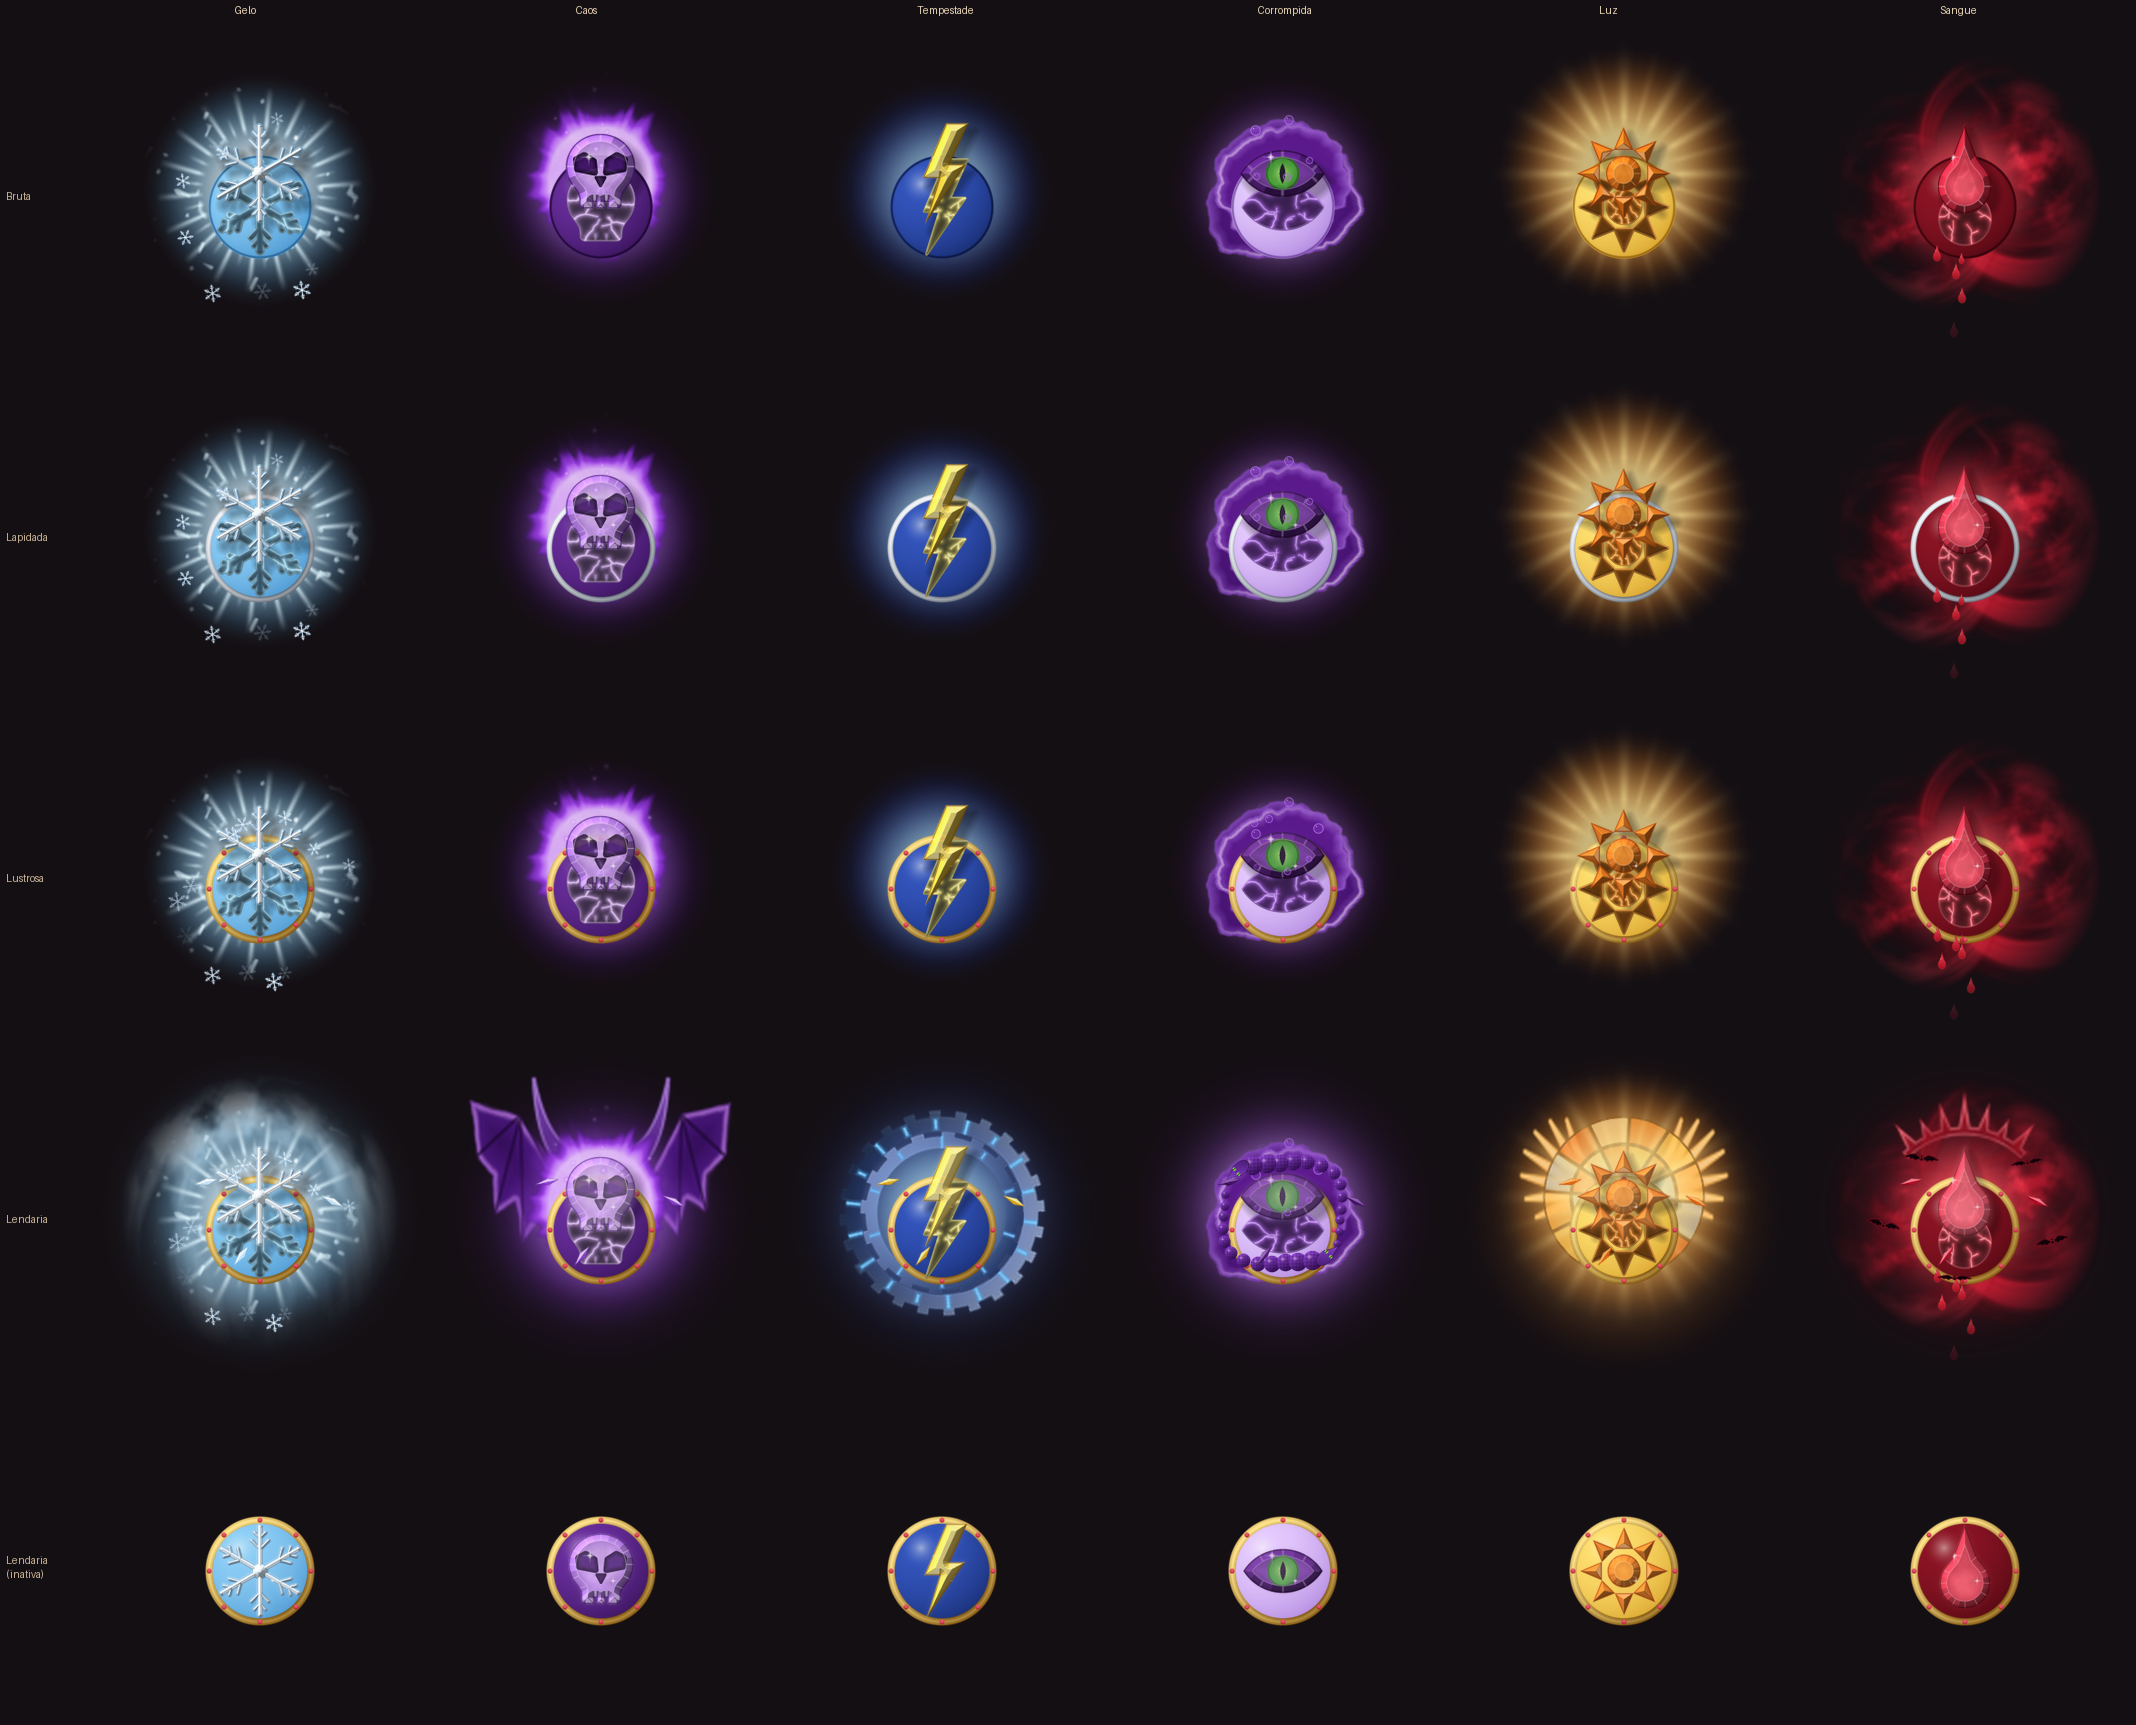
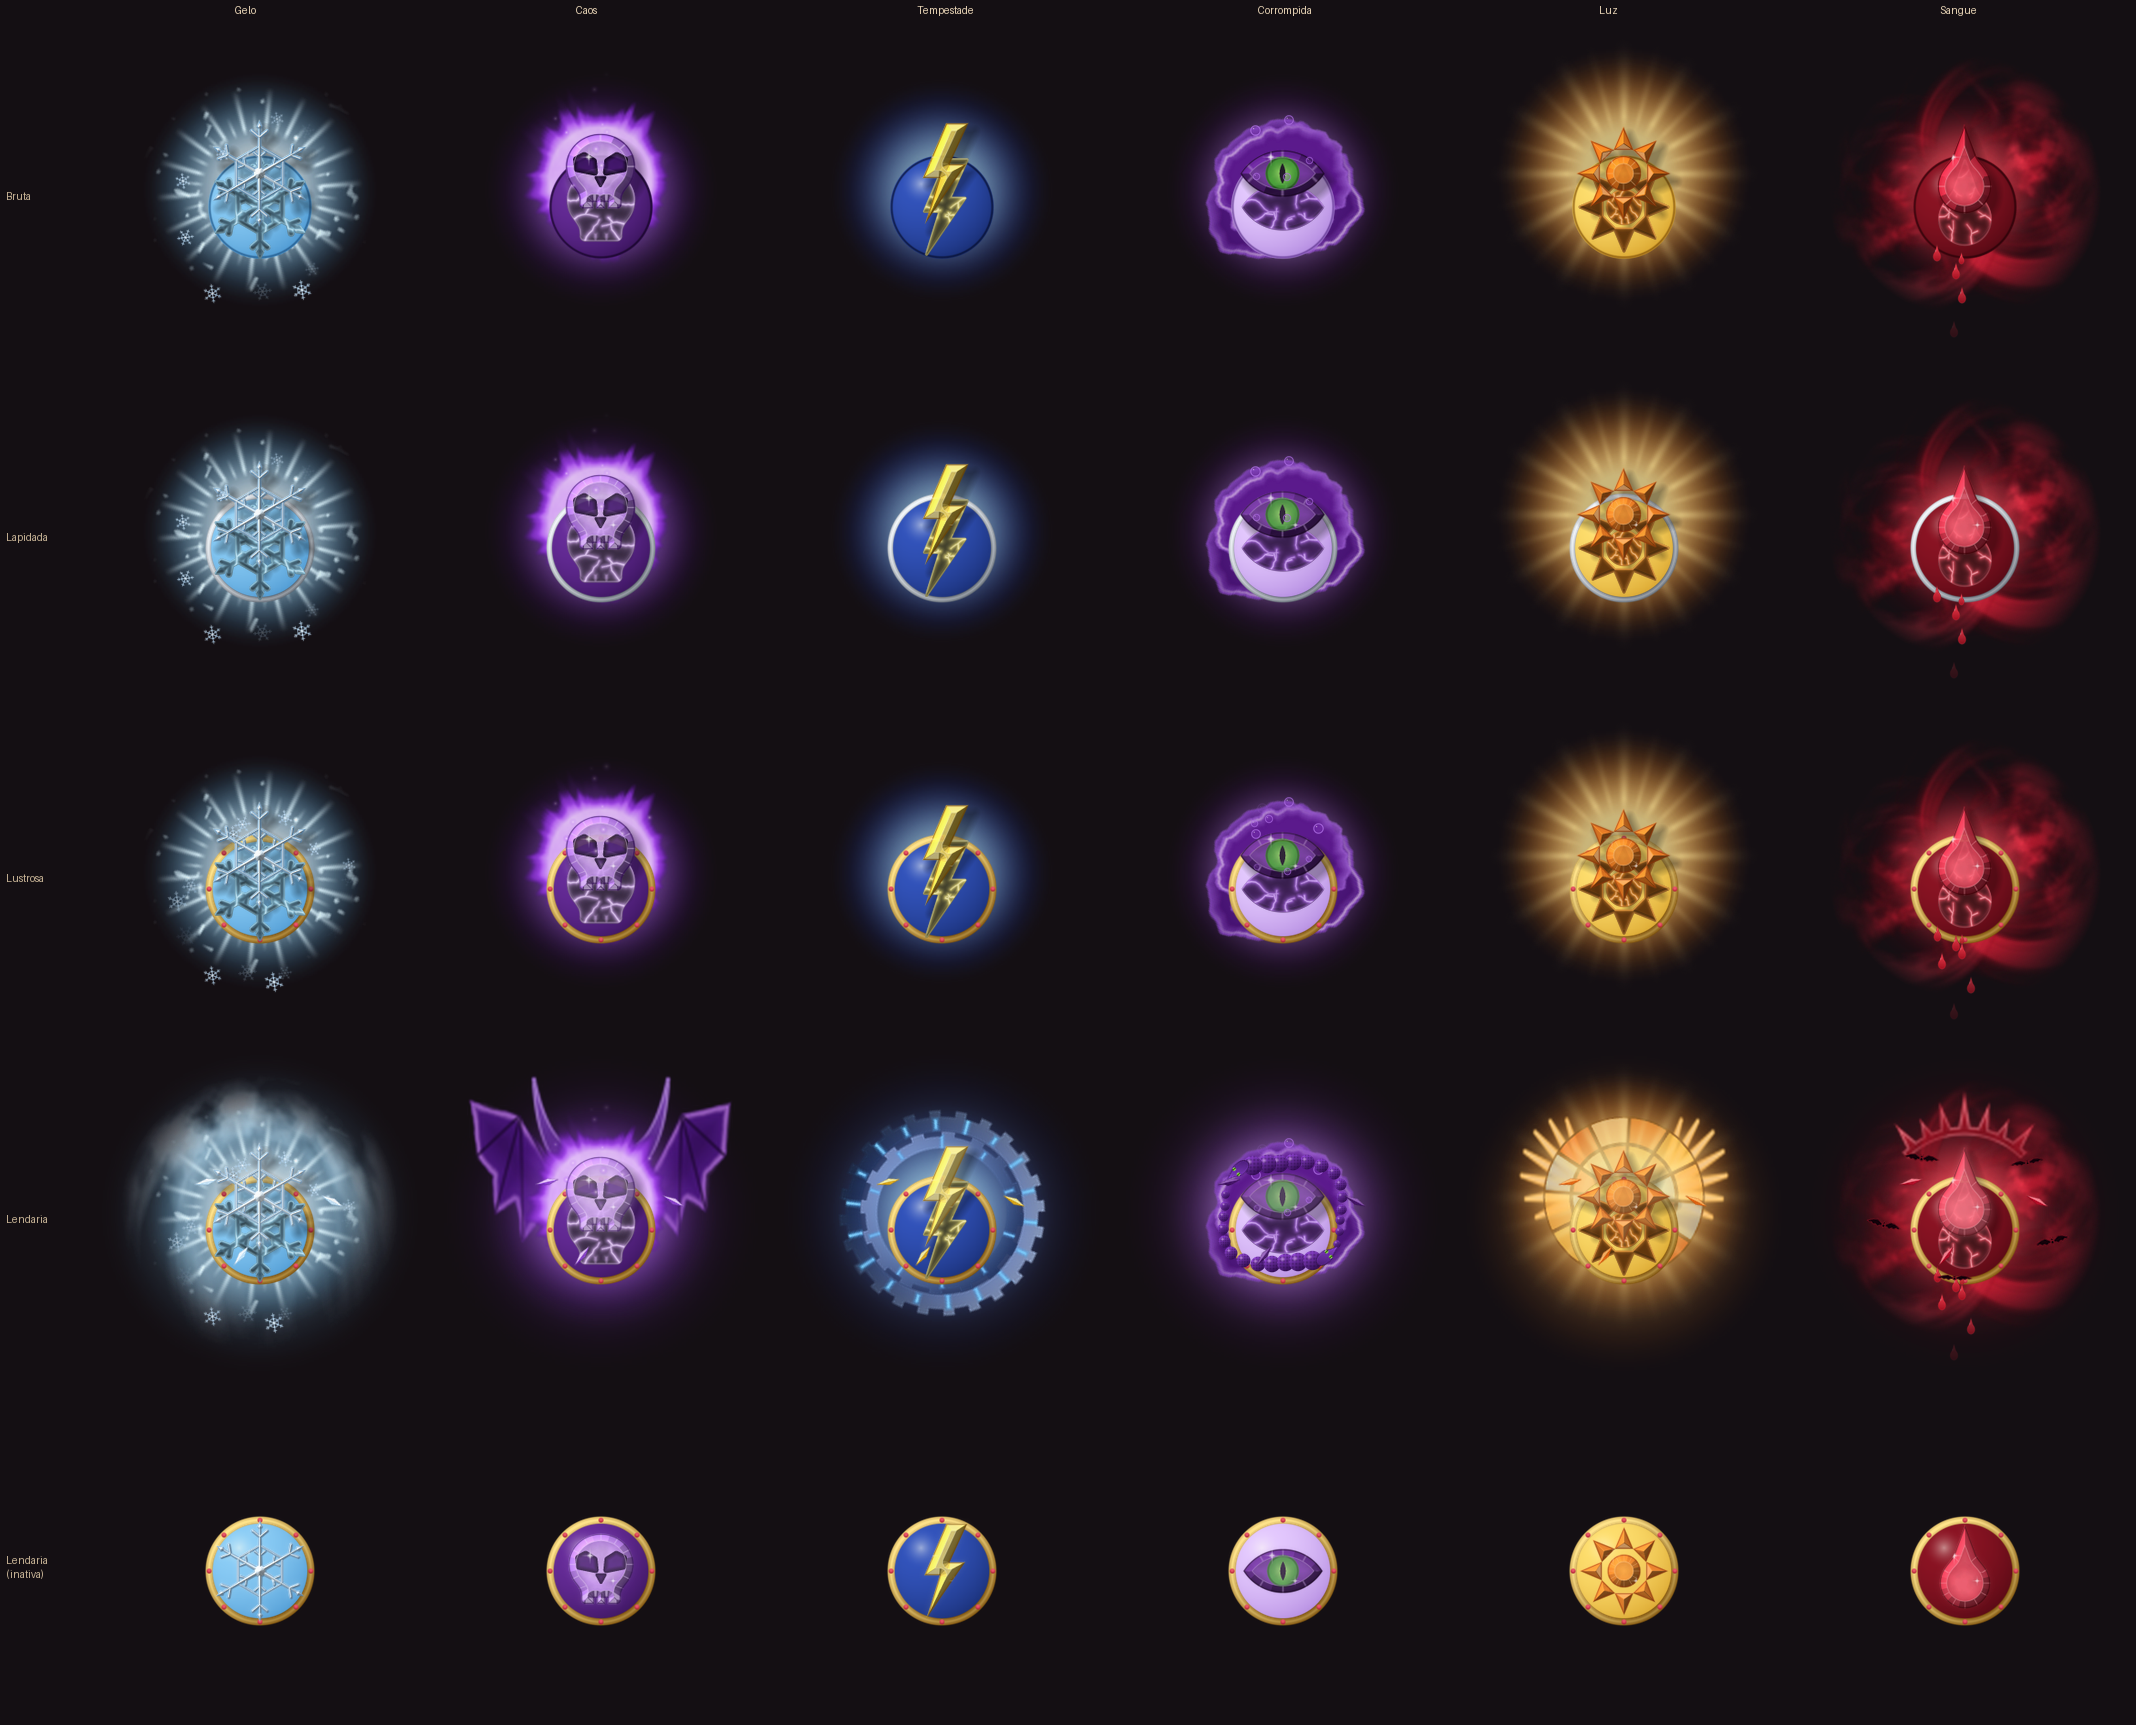
2.2.2: floco de neve mais natural, com hexágono interno e pontas cristalizadas
Claude-Session: https://claude.ai/code/session_01DjNdgvifZSdmPf3WafSU9R

diff --git a/src/GemArt.cs b/src/GemArt.cs
@@ -409,21 +409,34 @@ internal static class GemArt
 
     static float Flake(float x, float y)
     {
-        float d = Len(x, y) - 0.15f;
+        // Floco natural: hexágono fino ligando os braços pelo meio, e as pontas
+        // cristalizadas saindo para fora dele.
+        float d = Len(x, y) - 0.12f;
+        const float hexR = 0.46f, tip = 0.86f;
         for (int k = 0; k < 6; k++)
         {
             float a = MathF.PI / 2f + k * MathF.PI / 3f;
             float dx = MathF.Cos(a), dy = MathF.Sin(a);
-            d = MathF.Min(d, Seg(x, y, 0, 0, dx * 0.80f, dy * 0.80f) - 0.055f);
-            foreach (var (dist, len) in new[] { (0.40f, 0.22f), (0.60f, 0.14f) })
+            // Braço principal, afinando até a ponta.
+            float pax = x, pay = y, bax = dx * tip, bay = dy * tip;
+            float h = Clamp01((pax * bax + pay * bay) / (bax * bax + bay * bay));
+            d = MathF.Min(d, Len(pax - bax * h, pay - bay * h) - (0.05f - 0.025f * h));
+            // Ponta cristalizada: losango no fim do braço.
+            Rot(x - dx * 0.80f, y - dy * 0.80f, MathF.PI / 2f - a, out float qx, out float qy);
+            d = MathF.Min(d, PolyN(qx, qy, new[] { 0f, 0.12f, 0.055f, 0f, 0f, -0.08f, -0.055f, 0f }));
+            // Galhos: um par dentro do hexágono, um par maior fora dele.
+            foreach (var (dist, len, w) in new[] { (0.28f, 0.12f, 0.030f), (0.62f, 0.17f, 0.034f) })
             {
                 float bx = dx * dist, by = dy * dist;
                 for (int sgn = -1; sgn <= 1; sgn += 2)
                 {
-                    float ba = a + sgn * MathF.PI / 4f;
-                    d = MathF.Min(d, Seg(x, y, bx, by, bx + MathF.Cos(ba) * len, by + MathF.Sin(ba) * len) - 0.04f);
+                    float ba = a + sgn * MathF.PI / 3.6f;
+                    d = MathF.Min(d, Seg(x, y, bx, by, bx + MathF.Cos(ba) * len, by + MathF.Sin(ba) * len) - w);
                 }
             }
+            // Hexágono fino ligando este braço ao próximo.
+            float a2 = a + MathF.PI / 3f;
+            d = MathF.Min(d, Seg(x, y, dx * hexR, dy * hexR, MathF.Cos(a2) * hexR, MathF.Sin(a2) * hexR) - 0.028f);
         }
         return d;
     }

diff --git a/src/AssemblyInfo.cs b/src/AssemblyInfo.cs
@@ -4,6 +4,6 @@ using System.Reflection;
 [assembly: AssemblyProduct("CorrenteRapida")]
 [assembly: AssemblyDescription("Barra de troca rápida das Correntes do Draekhar: um clique troca de elemento sem abrir a janela. Joias animadas que evoluem com o tempo de uso.")]
 [assembly: AssemblyCompany("Sangria Falls (mod de jogador)")]
-[assembly: AssemblyVersion("2.2.1.0")]
-[assembly: AssemblyFileVersion("2.2.1.0")]
-[assembly: AssemblyInformationalVersion("2.2.1")]
+[assembly: AssemblyVersion("2.2.2.0")]
+[assembly: AssemblyFileVersion("2.2.2.0")]
+[assembly: AssemblyInformationalVersion("2.2.2")]

diff --git a/src/Plugin.cs b/src/Plugin.cs
@@ -10,7 +10,7 @@ public class Plugin : BasePlugin
 {
     public const string Guid = "sangria.correnterapida";
     public const string Name = "CorrenteRapida";
-    public const string Version = "2.2.1";
+    public const string Version = "2.2.2";
 
     internal static ManualLogSource L = null!;
     internal static Settings S = null!;
